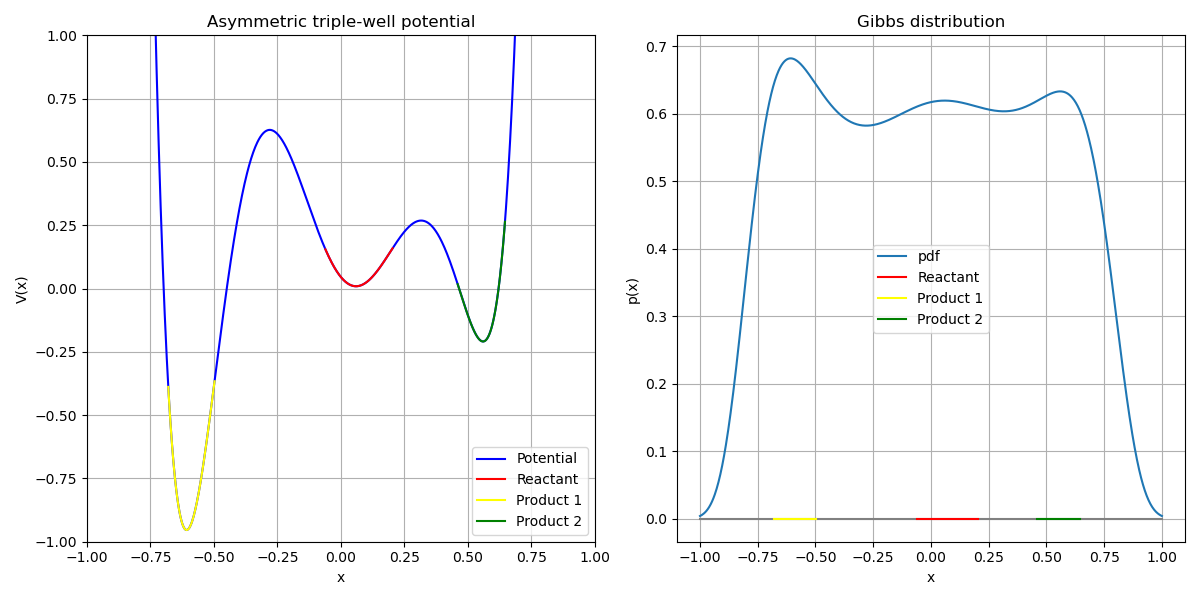
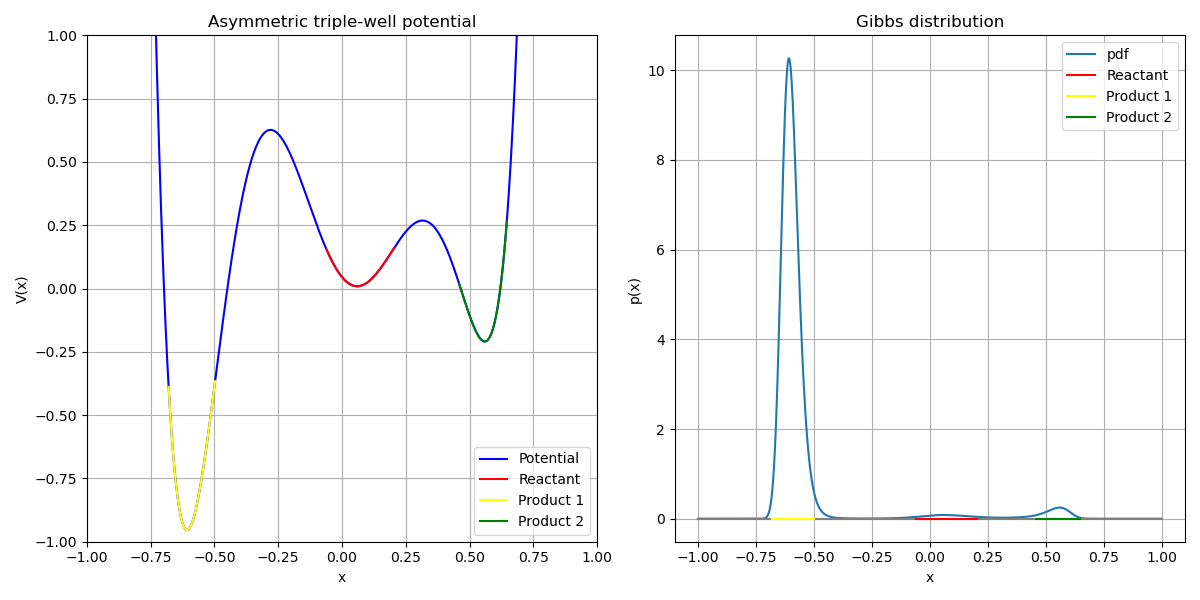
tpt 1d still to fix

diff --git a/triplewell/tw.py b/triplewell/tw.py
@@ -111,12 +111,12 @@ def neumann(q):
     """
     Apply Neumann boundary conditions on the edge of the simulation box: null derivative on the edge
     """
-    # Dirichlet also
+    # Dirichlet instead
     q[0] = 1
     q[-1] = 1
-    # Neumann boundary conditions on the edge
-    q[1] = q[0]  # Forward finite difference for Neumann condition
-    q[-2] = q[-1]  # Backward finite difference for Neumann condition
+    # # Neumann boundary conditions on the edge
+    # q[1] = q[0]  # Forward finite difference for Neumann condition
+    # q[-2] = q[-1]  # Backward finite difference for Neumann condition
 
 
 # Dirichlet boundary conditions on the metastable states

diff --git a/main.py b/main.py
@@ -17,7 +17,7 @@ elif solve == 3:
     from doublewell import langevin
 elif solve == 4:
     # set parameters
-    beta = 0.1
+    beta = 5
     h = 0.001
     Niter = 5000
     from triplewell import tw
